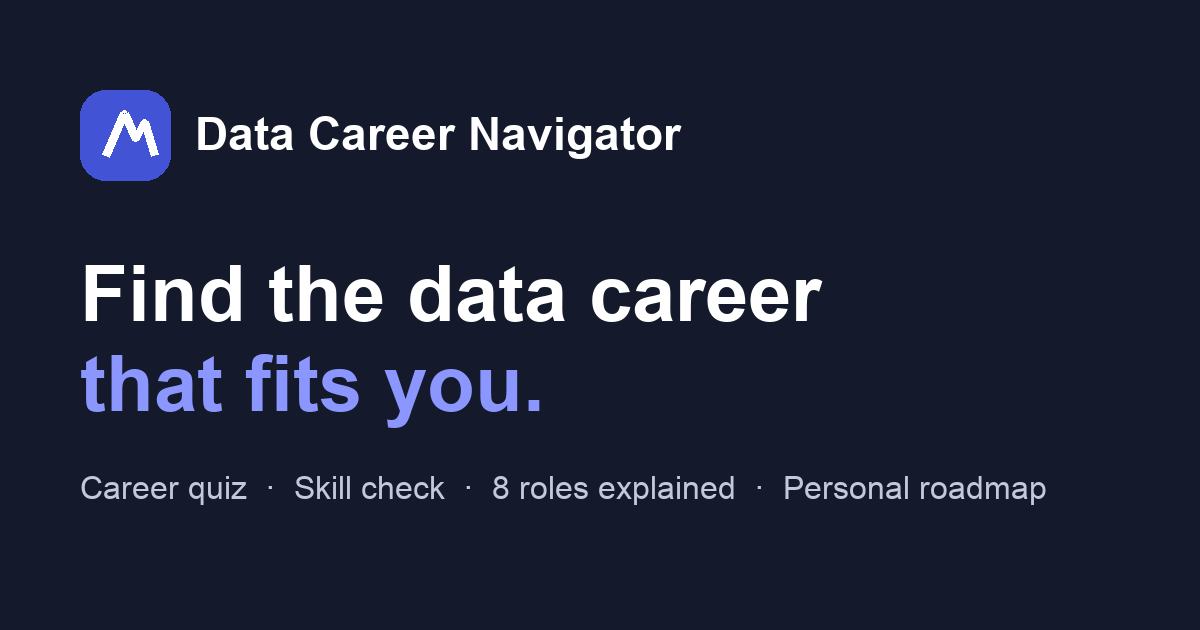
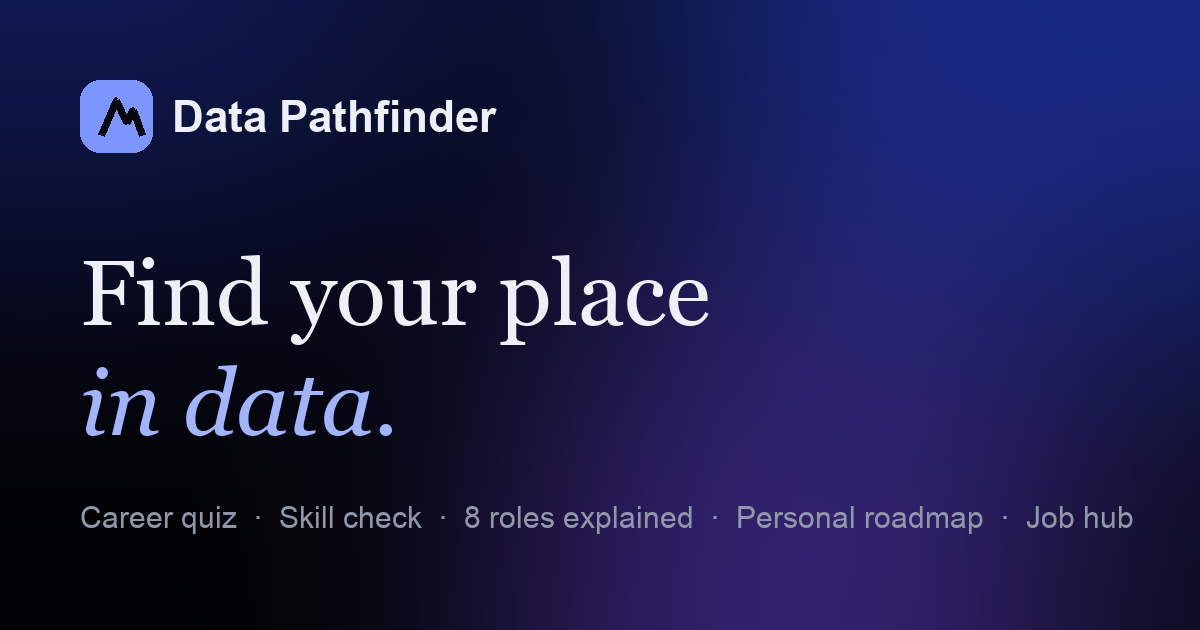
Rename site to Data Pathfinder

diff --git a/src/styles/global.css b/src/styles/global.css
@@ -1,4 +1,4 @@
-/* Data Career Navigator — design system.
+/* Data Pathfinder — design system.
    Cinematic dark theme by default; light theme via [data-theme="light"].
    Display type: Instrument Serif. Body: Inter. */
 

diff --git a/README.md b/README.md
@@ -1,4 +1,4 @@
-# Data Career Navigator
+# Data Pathfinder
 
 A free, interactive guide for students and career-switchers exploring data careers.
 
